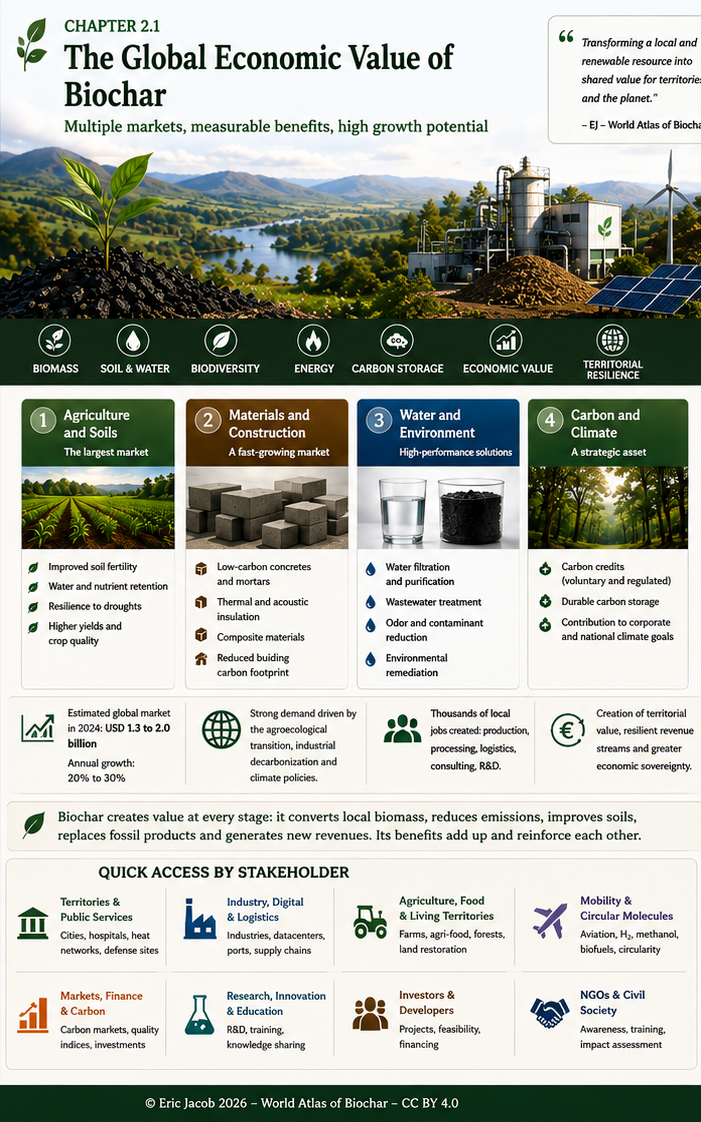
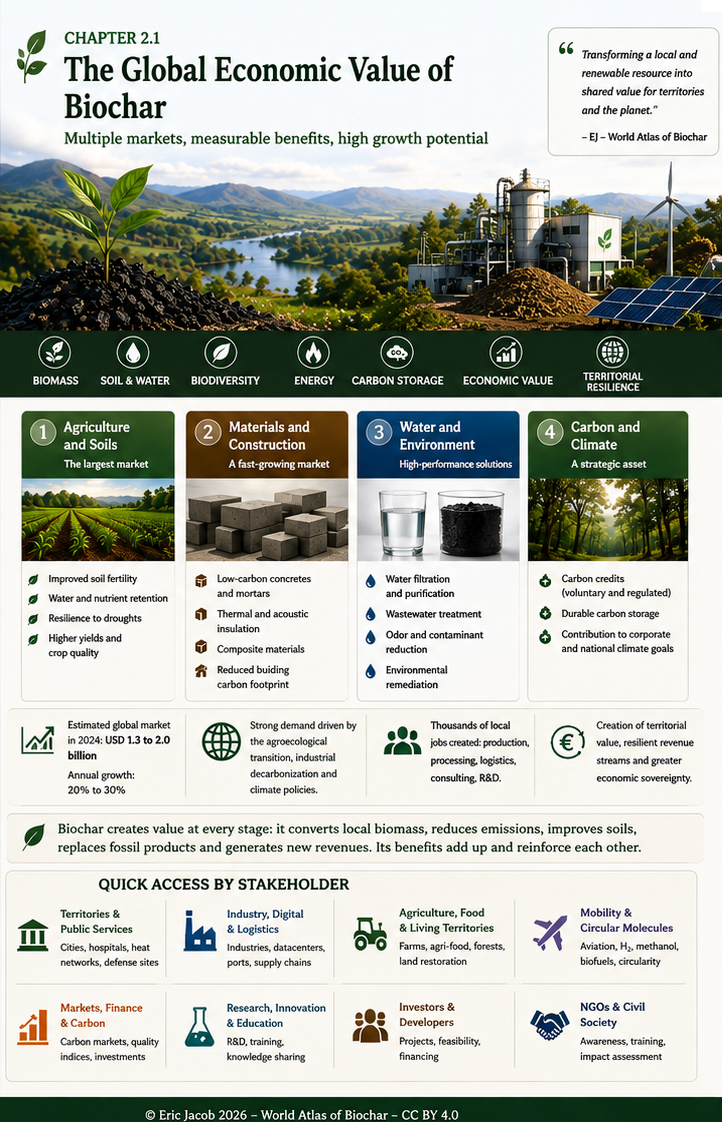
Add files via upload

diff --git a/atlas_mondial_biochars/ch3_fr.md b/atlas_mondial_biochars/ch3_fr.md
@@ -1,158 +1,3 @@
----
-layout: default
-lang: fr
-author: Eric Jacob
-title: "Atlas mondial de la valorisation économique du Biochar — Chapitre 1"
-description: "Le biochar : un matériau stratégique du XXIe siècle"
-license: Creative Commons Attribution 4.0 International (CC BY 4.0)
----
+# Chapitre 3
 
-# Chapitre 3 — Pourquoi certains biochars valent dix fois plus que d'autres ?
-
-> **Tous les biochars ne se ressemblent pas. Deux biochars visuellement identiques peuvent présenter des propriétés physiques, chimiques et économiques radicalement différentes.**
-
----
-
-# Une erreur fréquente
-
-On parle souvent "du" biochar.
-
-En réalité, il existe des centaines de biochars différents.
-
-Leur qualité dépend principalement de :
-
-- la biomasse ;
-- la température ;
-- le temps de résidence ;
-- la vitesse de chauffage ;
-- le refroidissement ;
-- l'atmosphère de réaction.
-
-Le procédé de fabrication conditionne directement les propriétés finales.
-
----
-
-# La biomasse
-
-La composition chimique de la biomasse influence fortement la qualité du biochar obtenu.
-
-| Biomasse | Lignine | Qualité attendue |
-|-----------|:-------:|:----------------:|
-| Bambou | ★★★★★ | ★★★★★ |
-| Chêne | ★★★★★ | ★★★★★ |
-| Hêtre | ★★★★☆ | ★★★★☆ |
-| Résidus forestiers | ★★★★☆ | ★★★★☆ |
-| Pin | ★★★☆☆ | ★★★☆☆ |
-| Miscanthus | ★★★★☆ | ★★★★☆ |
-| Paille | ★★☆☆☆ | ★★☆☆☆ |
-| Fumier | ★☆☆☆☆ | ★☆☆☆☆ |
-| Boues de STEP | Variable | Contrôle indispensable |
-
-Les biomasses riches en lignine produisent généralement un biochar plus stable, avec une meilleure résistance mécanique et une plus forte teneur en carbone fixe.
-
----
-
-# La température
-
-La température influence fortement les propriétés finales.
-
-| Température | Carbone fixe | Porosité | Rendement |
-|--------------|-------------|----------|-----------|
-| 350-450 °C | Moyen | Faible | Excellent |
-| 450-550 °C | Bon | Bon | Très bon |
-| 550-650 °C | Excellent | Excellent | Bon |
-| 650-750 °C | Très élevé | Très élevée | Moyen |
-
-Le choix de la température dépend donc de l'application recherchée.
-
----
-
-# Le rôle des cendres
-
-Toutes les biomasses ne possèdent pas la même teneur en minéraux.
-
-Une forte teneur en cendres peut :
-
-- diminuer la teneur en carbone fixe ;
-- modifier le pH ;
-- réduire certaines performances industrielles.
-
-Les biochars destinés aux matériaux techniques présentent généralement une faible teneur en cendres.
-
----
-
-# La porosité
-
-La porosité constitue l'une des propriétés majeures du biochar.
-
-Elle influence notamment :
-
-- la filtration ;
-- la rétention d'eau ;
-- l'activité biologique ;
-- la surface spécifique ;
-- l'adsorption de molécules.
-
-Selon les applications, une porosité élevée peut constituer un avantage... ou un inconvénient.
-
----
-
-# Le carbone fixe
-
-Le carbone fixe représente la fraction stable du biochar.
-
-Plus cette valeur est élevée :
-
-- plus la stabilité augmente ;
-- plus le potentiel de stockage du carbone est important ;
-- plus certains marchés deviennent accessibles.
-
----
-
-# Les certifications
-
-La qualité d'un biochar ne repose pas uniquement sur son aspect visuel.
-
-Les certifications prennent notamment en compte :
-
-- la biomasse utilisée ;
-- les métaux lourds ;
-- les HAP ;
-- les cendres ;
-- le carbone fixe ;
-- la stabilité ;
-- la traçabilité.
-
-Ces critères conditionnent l'accès à certains marchés industriels et aux mécanismes de certification carbone.
-
----
-
-# Pourquoi les prix varient-ils autant ?
-
-Deux biochars peuvent présenter des écarts de prix considérables.
-
-Les principaux facteurs explicatifs sont :
-
-✔ qualité de la biomasse
-
-✔ maîtrise du procédé
-
-✔ certification
-
-✔ destination finale
-
-✔ exigences du client
-
-✔ disponibilité locale
-
-Il n'existe donc pas un prix mondial unique du biochar.
-
----
-
-# À retenir
-
-Le biochar est un matériau technique.
-
-Sa valeur ne dépend pas de sa couleur ni de son aspect, mais de ses propriétés physico-chimiques, de son procédé de fabrication, de sa qualité analytique et de l'usage auquel il est destiné.
-
-C'est cette diversité qui explique pourquoi certains biochars sont destinés à l'agriculture, tandis que d'autres trouvent des applications dans les matériaux de construction, la filtration ou les marchés du retrait du carbone.
+Placeholder with image reference `ch3_fr.png`.
